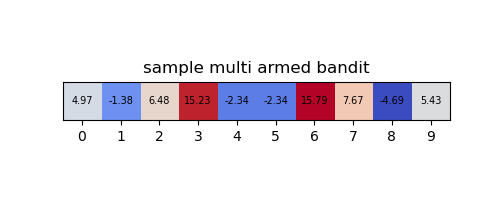
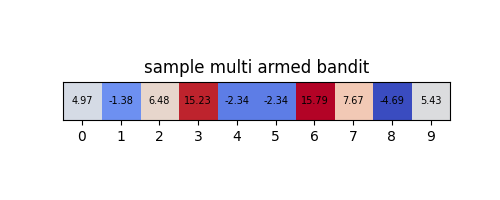
feat: add parameter recovery and result plots

diff --git a/recovery.py b/recovery.py
@@ -1,0 +1,67 @@
+import numpy as np
+import matplotlib.pyplot as plt
+from scipy.stats import ttest_ind
+from scipy.optimize import minimize
+import itertools
+import json
+from tqdm import tqdm
+
+from variable import variance, noise, horizon, num, mean, expected_mean, tot_env, env_name, strategy, variables, init, combination
+from function import prospect, select_arm, get_action, simulate
+
+def cross_entropy_loss(params, actions, rewards, envs, option) :
+    res = 0
+    alpha, beta, lam, mean, noise, temp = params[0], params[1], params[2], params[3], params[4], params[5]
+
+    for num_e, env in enumerate(envs) :
+        result = 0
+        mu_post = np.array([mean for i in range(10)])
+        sigma_post = np.array([noise for i in range(10)])
+        sigma_0 = noise
+
+        epsilon = 1e-9
+
+        for t in range(horizon):
+            action, reward = actions[num_e][t], rewards[num_e][t]
+
+            p = get_action(mu_post, sigma_post, option, result, alpha = alpha, beta = beta, lam = lam)
+            p = np.exp((p - np.max(p)) / temp)
+            p = p / np.sum(p)
+
+            res -= np.log(p[action] + epsilon)
+
+            result += reward
+            K_t = sigma_post[action] / (sigma_post[action] + sigma_0)
+            sigma_post[action] = (1-K_t) * sigma_post[action]
+            mu_post[action] += K_t * (reward - mu_post[action])
+
+    return res    
+
+
+# generate data (on mixed env)
+
+envs = tot_env[1]
+recovered_params = [[] for i in range(len(strategy))]
+
+for s, name in enumerate(strategy) :
+    print("["+name+"]")
+    for var in tqdm(combination) :
+        actions, rewards = [], []
+        for env in envs :
+            a, r, _, _ = simulate(var, s, env)
+            actions.append(a)
+            rewards.append(r)
+
+        initial_params = [1.0, 1.0, 1.0, 0, 10.0, 0.1]
+        bounds = [(0.1, 2.0), (0, None), (0, None), (-100, 100), (0.1, 20), (0.01, 10)]
+
+        result = minimize(cross_entropy_loss, initial_params,
+                          args = (actions, rewards, envs, s),
+                          method = 'L-BFGS-B',
+                          bounds = bounds
+                          )
+
+        recovered_params[s].append(result.x.tolist())
+
+with open("recovered_params.json", "w") as f:
+    json.dump(recovered_params, f, indent=4)

diff --git a/test.py b/test.py
@@ -2,14 +2,43 @@ import numpy as np
 import json
 import itertools
 import matplotlib.pyplot as plt
-from scipy.stats import ttest_ind
+from scipy.stats import ttest_ind, pearsonr
 
-from variable import variance, noise, horizon, num, mean, expected_mean, test_env, env_name, strategy, variables, init
-from function import prospect, select_arm, get_action, simulate
+from variable import variance, noise, horizon, num, mean, expected_mean, test_env, env_name, strategy, variables, init, recovery_set, combination
+from function import prospect, select_arm, simulate
 
-with open("best_params.json", "r") as f:
-    best_params = json.load(f)
+with open("recovered_params.json", "r") as f:
+    recovered_params = np.array(json.load(f))
 
+for n, name in enumerate(strategy):
+    for k, key in enumerate(recovery_set.keys()):
+        x = [combination[i][k] for i in range(len(combination))]
+        y = [recovered_params[n][i][k] for i in range(len(combination))]
+
+        # 상관계수 계산
+        r, p = pearsonr(x, y)
+
+        plt.figure(figsize=(6, 5))
+        plt.title(f"Parameter Recovery of {key} on {name}")
+        plt.scatter(x, y, alpha=0.1, s=2, label='Recovered')
+
+        # y = x 대각선
+        min_val, max_val = min(x), max(x)
+        plt.plot([min_val, max_val], [min_val, max_val], 'r--', label='y = x')
+
+        # 상관계수 텍스트 추가
+        plt.text(0.05, 0.95, f"r = {r:.2f}", transform=plt.gca().transAxes,
+                 verticalalignment='top', horizontalalignment='left', fontsize=10)
+
+        # 라벨 및 저장
+        plt.xlabel(f"True {key}")
+        plt.ylabel(f"Recovered {key}")
+        plt.legend()
+        plt.tight_layout()
+        plt.savefig(f"images/parameter recovery of {key} on {name}.png")
+        plt.close()
+
+"""
 result_r = [[], [], []] # env * strategy * trial * horizon
 tot_r = [[], [], []] # env * strategy * trial
 switch = [[], [], []] # env * strategy * trial
@@ -170,3 +199,4 @@ plt.grid(True, axis='y')
 plt.legend()
 plt.tight_layout()
 plt.savefig("images/grouped_switch_ratio_with_pvalues.png")
+"""

diff --git a/function.py b/function.py
@@ -23,13 +23,13 @@ def prospect(x, alpha, lam):
     
 def get_action(mean, variance, option, result, alpha=0.88, beta = 1, lam=2.25) :
     if (option == 0) : # generic UCB
-        return np.argmax(mean + beta * variance)
+        return mean + beta * variance
     elif (option == 1) : # relatvie prospect UCB
-        return np.argmax(prospect(mean + result, alpha=alpha, lam=lam) - prospect(result, alpha=alpha, lam=lam) + beta * variance)
+        return prospect(mean + result, alpha=alpha, lam=lam) - prospect(result, alpha=alpha, lam=lam) + beta * variance
     elif (option == 2) : # prospect UCB
-        return np.argmax(prospect(mean, alpha=alpha, lam=lam) + beta * variance)
+        return prospect(mean, alpha=alpha, lam=lam) + beta * variance
     elif (option == 3) : # relative prospect UCB (inner)
-        return np.argmax(prospect(mean + beta * variance + result, alpha=alpha, lam=lam) - prospect(result, alpha=alpha, lam=lam))
+        return prospect(mean + beta * variance + result, alpha=alpha, lam=lam) - prospect(result, alpha=alpha, lam=lam)
  
     return 0
 
@@ -44,7 +44,7 @@ def simulate(variables, option, env) :
     sigma_0 = noise
 
     for t in range(horizon):
-        action = get_action(mu_post, sigma_post, option, result, alpha = alpha, beta = beta, lam = lam)
+        action = np.argmax(get_action(mu_post, sigma_post, option, result, alpha = alpha, beta = beta, lam = lam))
         reward = select_arm(action, env)
 
         al.append(action)

diff --git a/variable.py b/variable.py
@@ -1,10 +1,11 @@
 import numpy as np
 import matplotlib.pyplot as plt
+import itertools
 
 variance = 10
 noise = 10
 horizon = 30
-num = 300
+num = 100
 mean = [50, 0, -50]
 expected_mean = [50, 0, -50]
 
@@ -44,3 +45,15 @@ for i in range(10) :
 plt.xticks([i for i in range(10)])
 plt.yticks([])
 plt.savefig('images/sample env.png')
+
+recovery_set = {
+    'alpha' : [0.4, 0.6, 0.8, 1.0, 1.5],
+    'beta' : [0, 1, 2, 3, 5, 7, 9, 10],
+    'lambda' : [0.5, 1.0, 2.0, 3.0],
+    'mu' : [-75, -50, -25, -10, 0, 10, 25, 50, 75],
+    'sigma' : [1, 2, 5, 10, 15],
+    'temperature': [0.1, 0.5, 1.0, 2.0, 5.0]
+}
+
+combination = list(itertools.product(*list(recovery_set.values())))
+#print(len(combination))
